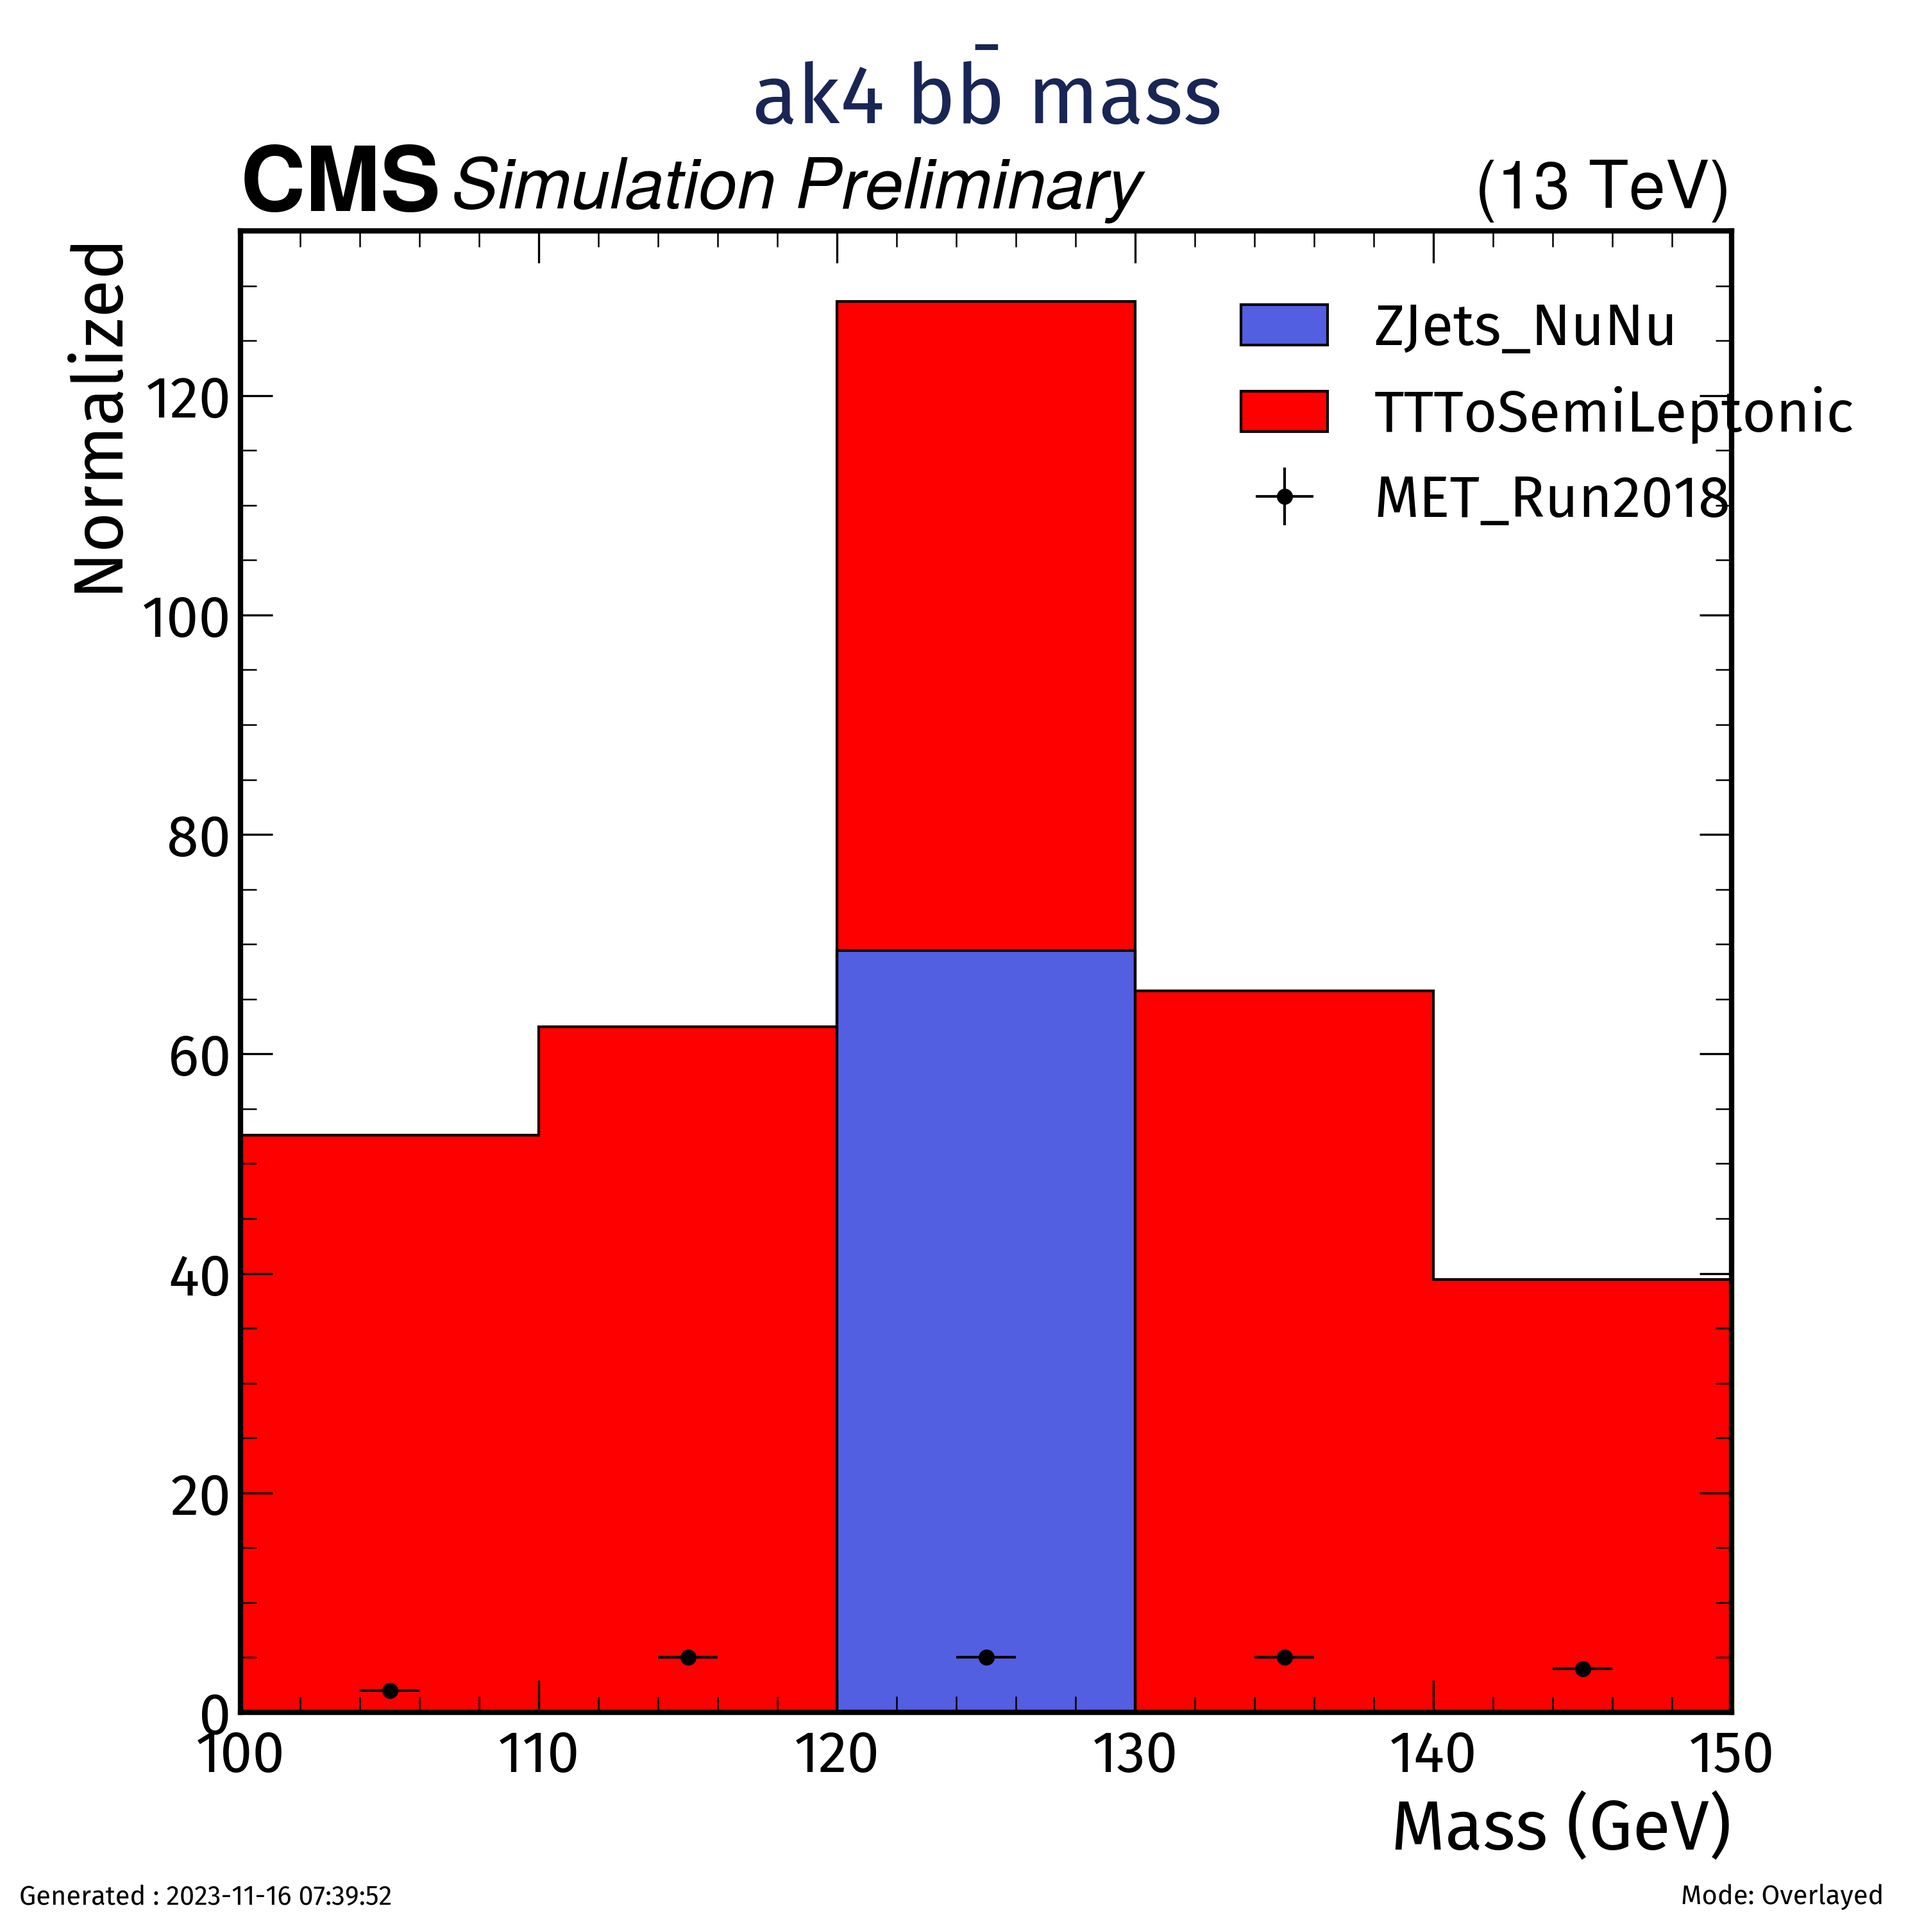
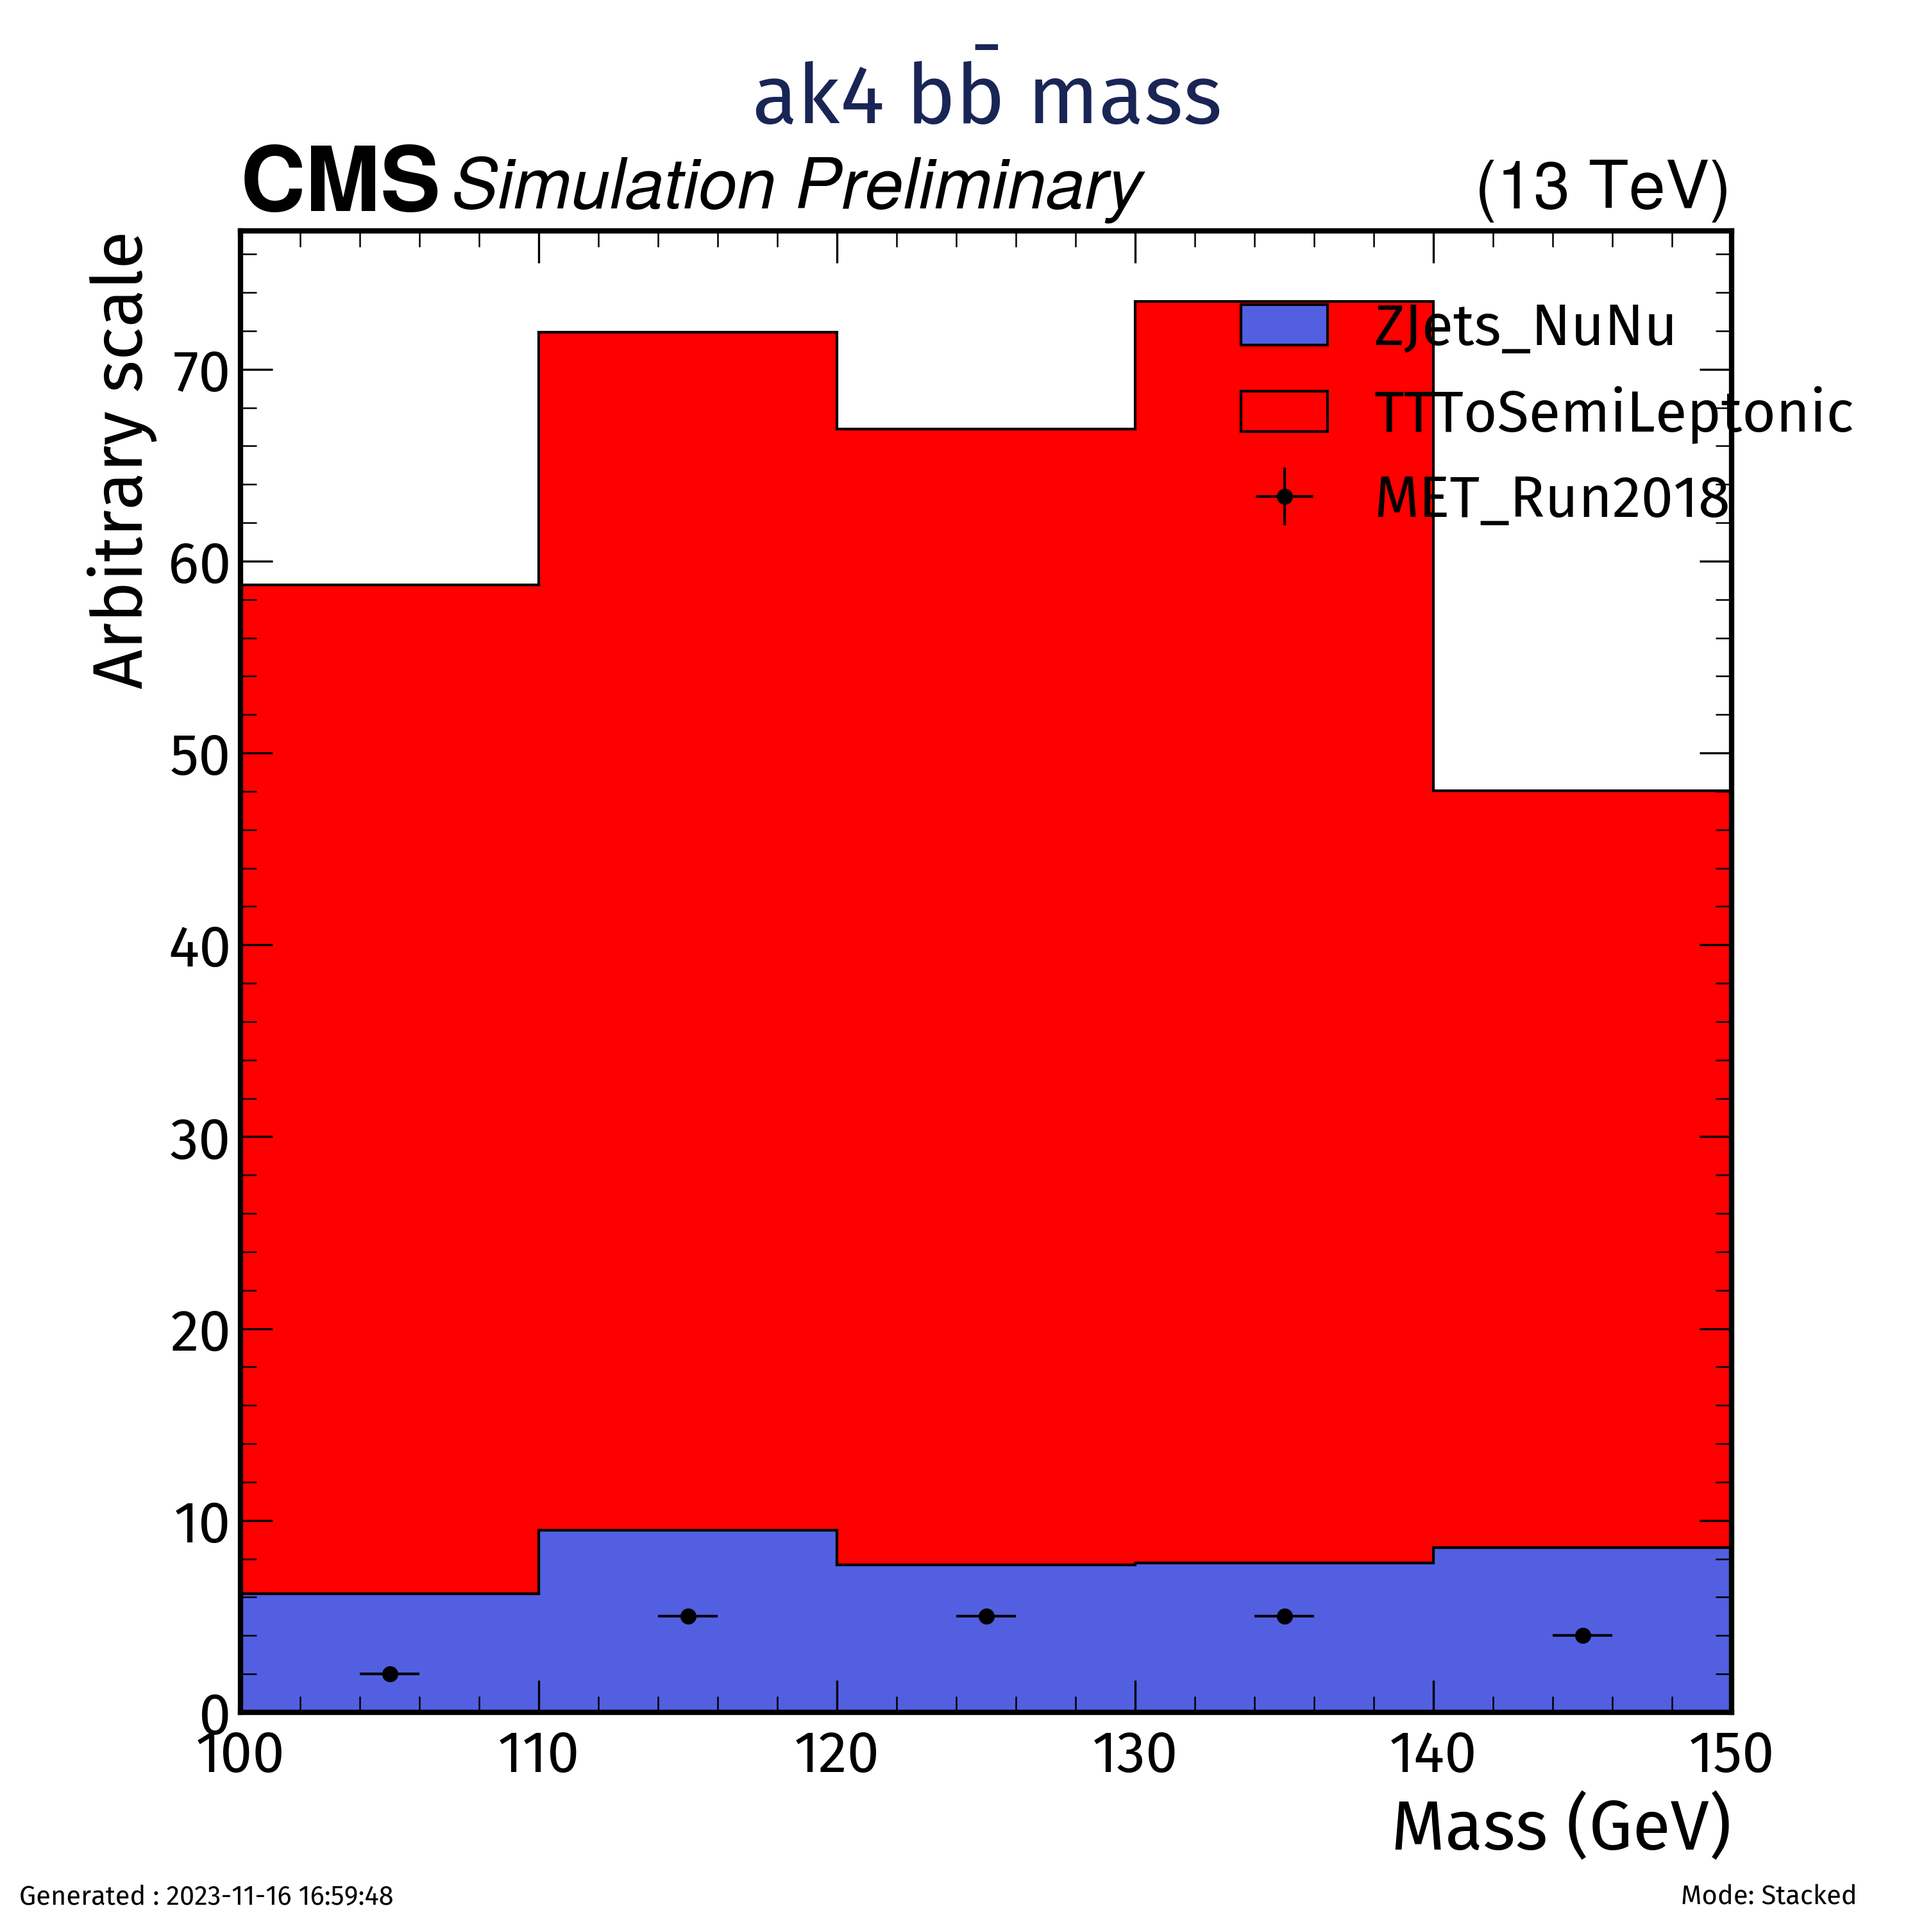
Automated Commit

diff --git a/Backgrounds/plotter_SR_Resolved_Backgrounds.py b/Backgrounds/plotter_SR_Resolved_Backgrounds.py
@@ -292,13 +292,13 @@ def combined_plot_manual(Output,norm = False , xsec = False):
     #     )
 
     hep.cms.label("Preliminary",data = False)
-    ax.set_ylabel("Normalized")
+    ax.set_ylabel("Arbitrary scale")
     plt.xlim([100.0,150.0])
     ax.set_xlabel("Mass (GeV)")
     ax.set_title(r"ak4 $b \bar{b}$ mass",pad=40, color="#192655")
     #plt.yscale("log")
     fig.text(0.01,0.01,"Generated : "+get_timestamp(), fontsize = "10")
-    fig.text(0.87,0.01," Mode: Overlayed", fontsize = "10")
+    fig.text(0.87,0.01," Mode: Stacked", fontsize = "10")
     fig.legend(loc= (0.63,.71))
     #fig.legend(loc=1)
     plotname = f"SR_Resolved_Backgrounds_dijet_mass_Combined.png"
@@ -391,7 +391,7 @@ match inputs.fulldataset :
         TTToSemiLeptonic = util.load("SR_Resolved_Backgrounds_TTToSemiLeptonic.coffea")
 master_dict = processor.accumulate([MET_Run2018,ZJets_NuNu,TTToSemiLeptonic])
 util.save(master_dict, "BackgroundDijets.coffea")
-#showinfo(master_dict)
+showinfo(master_dict)
 #plotall(master_dict)
 #combined_plot(master_dict)
 combined_plot_manual(master_dict,norm=False, xsec=True)
